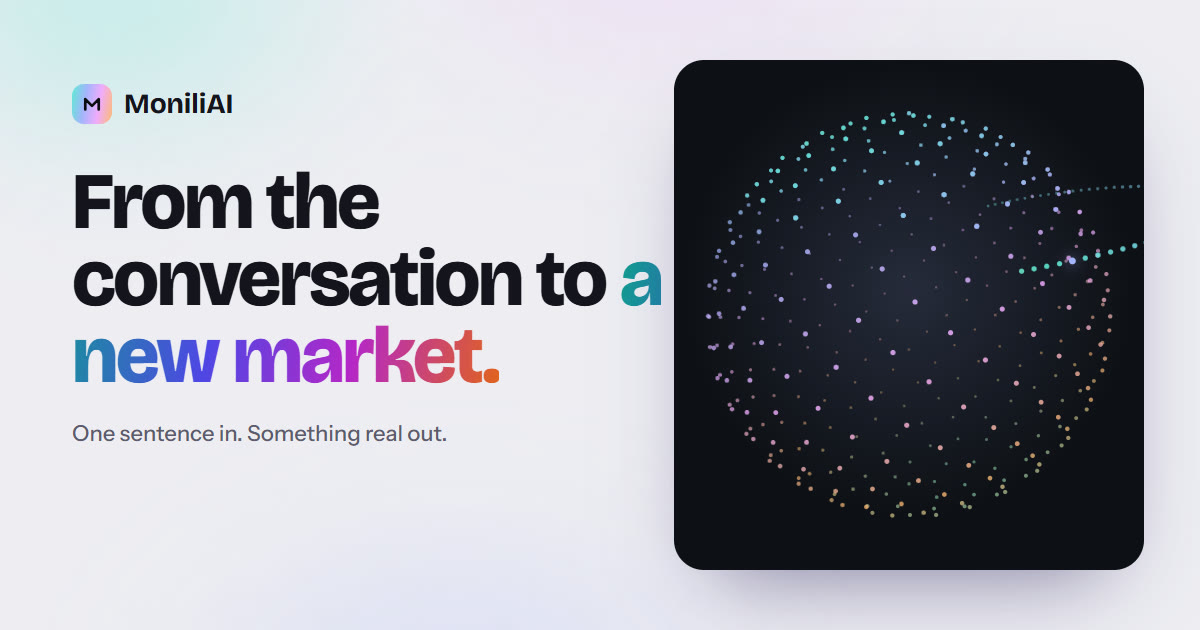
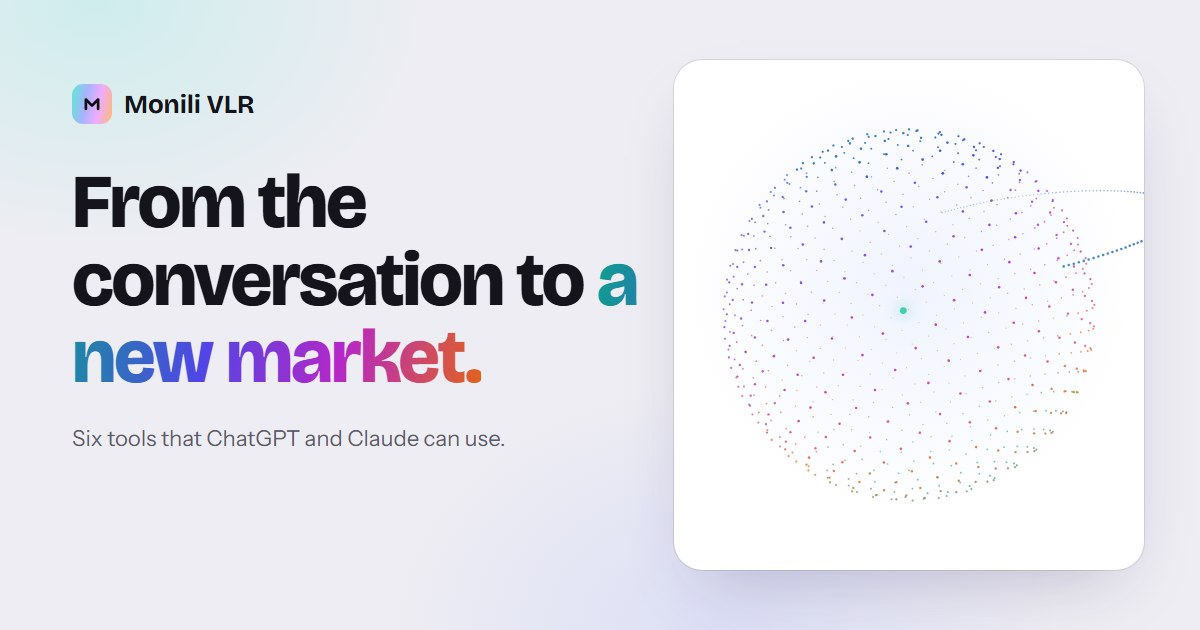
Name: Monili VLR (was MoniliAI), matching the address monili-vlr.github.io

diff --git a/dossier/index.html b/dossier/index.html
@@ -3,8 +3,8 @@
 <head>
 <meta charset="utf-8">
 <meta name="viewport" content="width=840">
-<title>MoniliAI · Dossier</title>
-<meta name="description" content="MoniliAI: una fábrica de software impulsada por agentes de IA. Tecnología abierta, economía real.">
+<title>Monili VLR · Dossier</title>
+<meta name="description" content="Monili VLR: una fábrica de software impulsada por agentes de IA. Tecnología abierta, economía real.">
 <link rel="preconnect" href="https://fonts.googleapis.com">
 <link href="https://fonts.googleapis.com/css2?family=Space+Grotesk:wght@400;500;700&family=Inter:wght@400;500;600&display=swap" rel="stylesheet">
 <style>
@@ -18,7 +18,7 @@ body{display:flex;flex-direction:column;align-items:center;gap:24px;padding:24px
 </head>
 <body>
 <section class="page"><div style="width: 794px; height: 1123px; box-sizing: border-box; background: #14213D; color: #F4F1EA; font-family: 'Inter', Arial, sans-serif; padding: 72px; display: flex; flex-direction: column; justify-content: space-between">
-  <div style="display: flex; justify-content: space-between; font-size: 12px; letter-spacing: 0.16em; text-transform: uppercase; color: #C9D1E0"><span><b style="color:#F4F1EA">MoniliAI</b> · Dossier</span><span>Noviembre 2026</span></div>
+  <div style="display: flex; justify-content: space-between; font-size: 12px; letter-spacing: 0.16em; text-transform: uppercase; color: #C9D1E0"><span><b style="color:#F4F1EA">Monili VLR</b> · Dossier</span><span>Noviembre 2026</span></div>
   <div style="display: flex; flex-direction: column; gap: 26px">
     <div style="width: 56px; height: 6px; background: #F2A65A"></div>
     <h1 style="margin: 0; font-family: 'Space Grotesk', Arial, sans-serif; font-weight: 700; font-size: 72px; line-height: 1; letter-spacing: -0.02em">De la conversación a un nuevo mercado.</h1>
@@ -33,10 +33,10 @@ body{display:flex;flex-direction:column;align-items:center;gap:24px;padding:24px
       <div style="background: #1E2D4F; border-radius: 12px; padding: 18px; display: flex; flex-direction: column; gap: 6px"><span style="font-size: 11px; font-weight: 600; letter-spacing: 0.12em; text-transform: uppercase; color: #F2A65A">Economía real</span><b style="font-family: 'Space Grotesk', Arial, sans-serif; font-size: 18px">Productos y servicios</b><span style="font-size: 12.5px; color: #C9D1E0">Fabricación, venta y licencias</span></div>
     </div>
   </div>
-  <div style="display: flex; justify-content: space-between; font-size: 13px; color: #C9D1E0; border-top: 1px solid #3D4A63; padding-top: 16px"><span>Valerio Scorretti · Fundador de MoniliAI</span><span>monili-vlr.github.io/#contact</span></div>
+  <div style="display: flex; justify-content: space-between; font-size: 13px; color: #C9D1E0; border-top: 1px solid #3D4A63; padding-top: 16px"><span>Valerio Scorretti · Fundador de Monili VLR</span><span>monili-vlr.github.io/#contact</span></div>
 </div></section>
 <section class="page"><div style="width: 794px; height: 1123px; box-sizing: border-box; background: #F4F1EA; color: #14213D; font-family: 'Inter', Arial, sans-serif; padding: 64px 72px; display: flex; flex-direction: column; gap: 22px">
-  <div style="display: flex; justify-content: space-between; font-size: 11px; letter-spacing: 0.16em; text-transform: uppercase; color: #5A6478"><span>MoniliAI · De la conversación a un nuevo mercado</span><span>02</span></div>
+  <div style="display: flex; justify-content: space-between; font-size: 11px; letter-spacing: 0.16em; text-transform: uppercase; color: #5A6478"><span>Monili VLR · De la conversación a un nuevo mercado</span><span>02</span></div>
   <div style="display: flex; flex-direction: column; gap: 10px">
     <span style="font-size: 12px; font-weight: 600; letter-spacing: 0.16em; text-transform: uppercase; color: #A8430F">La oportunidad</span>
     <h2 style="margin: 0; font-family: 'Space Grotesk', Arial, sans-serif; font-weight: 700; font-size: 36px; line-height: 1.08">Un nuevo mercado está abriéndose.</h2>
@@ -64,7 +64,7 @@ body{display:flex;flex-direction:column;align-items:center;gap:24px;padding:24px
   </div>
 </div></section>
 <section class="page"><div style="width: 794px; height: 1123px; box-sizing: border-box; background: #F4F1EA; color: #14213D; font-family: 'Inter', Arial, sans-serif; padding: 64px 72px; display: flex; flex-direction: column; gap: 22px">
-  <div style="display: flex; justify-content: space-between; font-size: 11px; letter-spacing: 0.16em; text-transform: uppercase; color: #5A6478"><span>MoniliAI · De la conversación a un nuevo mercado</span><span>03</span></div>
+  <div style="display: flex; justify-content: space-between; font-size: 11px; letter-spacing: 0.16em; text-transform: uppercase; color: #5A6478"><span>Monili VLR · De la conversación a un nuevo mercado</span><span>03</span></div>
   <div style="display: flex; flex-direction: column; gap: 8px">
     <span style="font-size: 12px; font-weight: 600; letter-spacing: 0.16em; text-transform: uppercase; color: #A8430F">Diseño 3D en el chat</span>
     <p style="margin: 0; font-family: 'Space Grotesk', Arial, sans-serif; font-size: 22px; font-weight: 500; line-height: 1.35">Describes lo que quieres. Recibes una pieza con geometría CAD exacta, lista para producir. No es una imagen: es un objeto construible.</p>
@@ -90,7 +90,7 @@ body{display:flex;flex-direction:column;align-items:center;gap:24px;padding:24px
   </div>
 </div></section>
 <section class="page"><div style="width: 794px; height: 1123px; box-sizing: border-box; background: #F4F1EA; color: #14213D; font-family: 'Inter', Arial, sans-serif; padding: 64px 72px; display: flex; flex-direction: column; gap: 22px">
-  <div style="display: flex; justify-content: space-between; font-size: 11px; letter-spacing: 0.16em; text-transform: uppercase; color: #5A6478"><span>MoniliAI · De la conversación a un nuevo mercado</span><span>04</span></div>
+  <div style="display: flex; justify-content: space-between; font-size: 11px; letter-spacing: 0.16em; text-transform: uppercase; color: #5A6478"><span>Monili VLR · De la conversación a un nuevo mercado</span><span>04</span></div>
   <div style="display: flex; flex-direction: column; gap: 8px">
     <span style="font-size: 12px; font-weight: 600; letter-spacing: 0.16em; text-transform: uppercase; color: #A8430F">Privacidad y seguridad</span>
     <p style="margin: 0; font-family: 'Space Grotesk', Arial, sans-serif; font-size: 22px; font-weight: 500; line-height: 1.35">Usar la IA sin exponer los datos de nadie ni dejar el ordenador desprotegido.</p>
@@ -119,7 +119,7 @@ body{display:flex;flex-direction:column;align-items:center;gap:24px;padding:24px
   </div>
 </div></section>
 <section class="page"><div style="width: 794px; height: 1123px; box-sizing: border-box; background: #F4F1EA; color: #14213D; font-family: 'Inter', Arial, sans-serif; padding: 64px 72px; display: flex; flex-direction: column; gap: 24px">
-  <div style="display: flex; justify-content: space-between; font-size: 11px; letter-spacing: 0.16em; text-transform: uppercase; color: #5A6478"><span>MoniliAI · De la conversación a un nuevo mercado</span><span>05</span></div>
+  <div style="display: flex; justify-content: space-between; font-size: 11px; letter-spacing: 0.16em; text-transform: uppercase; color: #5A6478"><span>Monili VLR · De la conversación a un nuevo mercado</span><span>05</span></div>
   <div style="display: flex; flex-direction: column; gap: 8px">
     <span style="font-size: 12px; font-weight: 600; letter-spacing: 0.16em; text-transform: uppercase; color: #A8430F">Movilidad y turismo</span>
     <p style="margin: 0; font-family: 'Space Grotesk', Arial, sans-serif; font-size: 22px; font-weight: 500; line-height: 1.35">Un asistente de viaje que funciona en directo, en cualquier ciudad y en tu idioma.</p>
@@ -148,7 +148,7 @@ body{display:flex;flex-direction:column;align-items:center;gap:24px;padding:24px
   </div>
 </div></section>
 <section class="page"><div style="width: 794px; height: 1123px; box-sizing: border-box; background: #F4F1EA; color: #14213D; font-family: 'Inter', Arial, sans-serif; padding: 64px 72px; display: flex; flex-direction: column; gap: 18px">
-  <div style="display: flex; justify-content: space-between; font-size: 11px; letter-spacing: 0.16em; text-transform: uppercase; color: #5A6478"><span>MoniliAI · De la conversación a un nuevo mercado</span><span>06</span></div>
+  <div style="display: flex; justify-content: space-between; font-size: 11px; letter-spacing: 0.16em; text-transform: uppercase; color: #5A6478"><span>Monili VLR · De la conversación a un nuevo mercado</span><span>06</span></div>
   <div style="display: flex; flex-direction: column; gap: 8px">
     <span style="font-size: 12px; font-weight: 600; letter-spacing: 0.16em; text-transform: uppercase; color: #A8430F">Modelo de negocio</span>
     <h2 style="margin: 0; font-family: 'Space Grotesk', Arial, sans-serif; font-weight: 700; font-size: 30px; line-height: 1.1">La aplicación es gratuita. El valor se genera fuera de la pantalla.</h2>
@@ -176,7 +176,7 @@ body{display:flex;flex-direction:column;align-items:center;gap:24px;padding:24px
     <p style="margin: 0; font-size: 13.5px; line-height: 1.6; color: #E4E8F0">Acceso a inversores y al Demo Day para financiar el lanzamiento; MareNostrum 5 para el render 3D y para entrenar mis propios modelos abiertos, en Europa y publicados como open source; y apoyo para decidir qué línea lanzar primero y con qué precios.</p>
   </div>
   <p style="margin: 0; font-family: 'Space Grotesk', Arial, sans-serif; font-size: 20px; font-weight: 700; line-height: 1.3">Aprovecho las nuevas vitrinas. Construyo tecnología propia. Monetizo la economía real.</p>
-  <div style="margin-top: auto; display: flex; justify-content: space-between; font-size: 12.5px; color: #3D4A63; border-top: 1px solid #D9D4C7; padding-top: 12px"><span>Valerio Scorretti · Fundador de MoniliAI</span><span>monili-vlr.github.io/#contact</span></div>
+  <div style="margin-top: auto; display: flex; justify-content: space-between; font-size: 12.5px; color: #3D4A63; border-top: 1px solid #D9D4C7; padding-top: 12px"><span>Valerio Scorretti · Fundador de Monili VLR</span><span>monili-vlr.github.io/#contact</span></div>
 </div></section>
 </body>
 </html>

diff --git a/index.html b/index.html
@@ -3,13 +3,13 @@
 <head>
 <meta charset="utf-8">
 <meta name="viewport" content="width=device-width, initial-scale=1, viewport-fit=cover">
-<title>MoniliAI</title>
-<meta name="description" content="MoniliAI is a software factory driven by AI agents. You write a prompt, and something real comes out: a ring, a building, a protected document, a safe computer, a journey.">
+<title>Monili VLR</title>
+<meta name="description" content="Monili VLR is a software factory driven by AI agents. You write a prompt, and something real comes out: a ring, a building, a protected document, a safe computer, a journey.">
 <meta name="theme-color" content="#EEEDF3">
 <link rel="icon" href="favicon.svg" type="image/svg+xml">
 <link rel="canonical" href="https://monili-vlr.github.io/">
 <meta property="og:type" content="website">
-<meta property="og:title" content="MoniliAI · From the conversation to a new market">
+<meta property="og:title" content="Monili VLR · From the conversation to a new market">
 <meta property="og:description" content="A software factory driven by AI agents. You write, something real comes out.">
 <meta property="og:url" content="https://monili-vlr.github.io/">
 <meta property="og:image" content="https://monili-vlr.github.io/og.jpg">
@@ -216,7 +216,7 @@ button { touch-action: manipulation; }
 <a class="skip" href="#products">Skip to the products</a>
 <header class="top">
   <div class="wrap bar">
-    <a class="brand" href="#top" aria-label="MoniliAI, home"><span class="mark"><svg viewBox="0 0 18 18" aria-hidden="true"><path d="M3.5 13.5V5l5.5 5.5L14.5 5v8.5" fill="none" stroke="#0B0C11" stroke-width="2.2" stroke-linecap="round" stroke-linejoin="round"/></svg></span>MoniliAI</a>
+    <a class="brand" href="#top" aria-label="Monili VLR, home"><span class="mark"><svg viewBox="0 0 18 18" aria-hidden="true"><path d="M3.5 13.5V5l5.5 5.5L14.5 5v8.5" fill="none" stroke="#0B0C11" stroke-width="2.2" stroke-linecap="round" stroke-linejoin="round"/></svg></span>Monili VLR</a>
     <nav aria-label="Main"><a href="#products">Products</a><a href="#factory">The factory</a><a href="#model">Model</a><a href="dossier/">Dossier</a><a href="#contact">Contact</a></nav>
   </div>
 </header>
@@ -278,21 +278,21 @@ button { touch-action: manipulation; }
       <div>
         <div class="label">Contact</div>
         <h2 id="ch">Write to us. <span class="tone">A person answers.</span></h2>
-        <p class="clead">Access to a product, a partnership, a question about your data: one box for all of MoniliAI. We answer by email.</p>
+        <p class="clead">Access to a product, a partnership, a question about your data: one box for all of Monili VLR. We answer by email.</p>
         <div class="pnote" id="privacy-contact">
           <h3>How your message is handled</h3>
           <p>The box sends your name, your email and your message. We use them only to answer you and to follow up your request (GDPR art. 6(1)(b), or legitimate interest for general questions).</p>
           <p>Messages are delivered by FormSubmit (formsubmit.co) to our mailbox on Gmail (Google); both may process them in the United States under their own safeguards. Nothing is sold or used for marketing.</p>
-          <p>We keep messages as long as needed for your request, and no longer than 24 months after the last contact. You can ask for access, correction or deletion, or object, by writing here; you can also complain to your data protection authority. Controller: Valerio Scorretti, founder of MoniliAI.</p>
+          <p>We keep messages as long as needed for your request, and no longer than 24 months after the last contact. You can ask for access, correction or deletion, or object, by writing here; you can also complain to your data protection authority. Controller: Valerio Scorretti, founder of Monili VLR.</p>
         </div>
       </div>
-      <div data-mai-contact-inline data-topic="MoniliAI" data-light><p class="cwait">Loading the contact form…</p></div>
+      <div data-mai-contact-inline data-topic="Monili VLR" data-light><p class="cwait">Loading the contact form…</p></div>
       <script src="contact.js"></script>
     </div>
   </section>
 </main>
 
-<footer><div class="wrap"><span>© 2026 MoniliAI · Valerio Scorretti, founder</span><span><a href="#contact">Contact</a> · <a href="#privacy-contact">Privacy</a> · <a href="dossier/">Dossier (ES)</a></span></div></footer>
+<footer><div class="wrap"><span>© 2026 Monili VLR · Valerio Scorretti, founder</span><span><a href="#contact">Contact</a> · <a href="#privacy-contact">Privacy</a> · <a href="dossier/">Dossier (ES)</a></span></div></footer>
 
 <script src="products.js"></script>
 <script src="fx.js"></script>

diff --git a/contact.js b/contact.js
@@ -1,9 +1,9 @@
-/* MoniliAI contact box, shared by every MoniliAI site.
+/* Monili VLR contact box, shared by every Monili VLR site.
    - Any link with data-mai-contact="Topic" opens the box over the page (the link still works
      without JavaScript: it points to https://monili-vlr.github.io/#contact).
    - <div data-mai-contact-inline data-topic="..."></div> shows the box inside the page.
    - window.MAIContact.open({ topic, message }) opens it from code.
-   Messages are delivered by FormSubmit (formsubmit.co) to the MoniliAI mailbox; the address is
+   Messages are delivered by FormSubmit (formsubmit.co) to the Monili VLR mailbox; the address is
    never written in the pages. To change where messages go, change ENDPOINT only. */
 (() => {
   'use strict';
@@ -54,11 +54,11 @@ dialog.maic-dlg::backdrop{background:rgba(8,10,20,.62);backdrop-filter:blur(3px)
   let n = 0;
 
   function card(opts = {}) {
-    const id = 'maic' + (++n), topic = opts.topic || 'MoniliAI';
+    const id = 'maic' + (++n), topic = opts.topic || 'Monili VLR';
     const box = document.createElement('div'); box.className = 'maic' + (opts.light ? ' maic-light' : '');
     box.innerHTML = `
       ${opts.closable ? '<button type="button" class="maic-x" aria-label="Close">&times;</button>' : ''}
-      <h2 id="${id}-h">Write to MoniliAI</h2>
+      <h2 id="${id}-h">Write to Monili VLR</h2>
       <p class="maic-sub">About: <b>${esc(topic)}</b>. We answer by email, usually within two working days.</p>
       <form novalidate aria-labelledby="${id}-h">
         <div class="maic-row">
@@ -87,7 +87,7 @@ dialog.maic-dlg::backdrop{background:rgba(8,10,20,.62);backdrop-filter:blur(3px)
         const r = await fetch(ENDPOINT, {
           method: 'POST', headers: { 'Content-Type': 'application/json', Accept: 'application/json' },
           body: JSON.stringify({ name: form.name.value.trim() || '(no name)', email, message: text, topic, page: location.href,
-            _subject: `MoniliAI · ${topic}`, _replyto: email, _template: 'table', _captcha: 'false' })
+            _subject: `Monili VLR · ${topic}`, _replyto: email, _template: 'table', _captcha: 'false' })
         });
         const j = await r.json().catch(() => ({}));
         if (!r.ok || String(j.success) !== 'true') throw new Error(j.message || 'not sent');
@@ -96,7 +96,7 @@ dialog.maic-dlg::backdrop{background:rgba(8,10,20,.62);backdrop-filter:blur(3px)
         const why = String(err && err.message || '');
         msg.className = 'maic-msg err';
         msg.textContent = /activat/i.test(why)
-          ? 'The contact box is waiting for its one-time activation by MoniliAI. Please try again later.'
+          ? 'The contact box is waiting for its one-time activation by Monili VLR. Please try again later.'
           : 'The message could not be sent right now' + (why && why !== 'not sent' && !/fetch/i.test(why) ? ' (' + why.slice(0, 120) + ')' : '') + '. Please try again in a moment.';
         btn.disabled = false; btn.firstChild.textContent = 'Send ';
       }
@@ -122,7 +122,7 @@ dialog.maic-dlg::backdrop{background:rgba(8,10,20,.62);backdrop-filter:blur(3px)
   document.addEventListener('click', e => {
     const a = e.target.closest && e.target.closest('[data-mai-contact]');
     if (!a || e.ctrlKey || e.metaKey || e.shiftKey || e.button > 0) return;
-    e.preventDefault(); open({ topic: a.dataset.maiContact || 'MoniliAI' });
+    e.preventDefault(); open({ topic: a.dataset.maiContact || 'Monili VLR' });
   });
   window.MAIContact = { open, mount };
   mount(); if (document.readyState === 'loading') document.addEventListener('DOMContentLoaded', mount);

diff --git a/mobile.css b/mobile.css
@@ -1,4 +1,4 @@
-/* MoniliAI phone layout, shared by every MoniliAI site. Nothing here changes the desktop layout.
+/* Monili VLR phone layout, shared by every Monili VLR site. Nothing here changes the desktop layout.
    .mai-swipe        a long group of cards becomes one row you swipe sideways (the next card peeks in)
    .mai-wrap         an invisible wrapper added around cards that had no container of their own
    .mai-swipe-hint   "Swipe to see more", shown only on phones

diff --git a/fx.js b/fx.js
@@ -1,4 +1,4 @@
-/* MoniliAI graphics: one point-cloud engine for every product shape.
+/* Monili VLR graphics: one point-cloud engine for every product shape.
    Same stroke, same holographic palette, same motion everywhere, so the previews read as one family.
    Shapes: ring, building, redact, shield, transit, globe, orb. Each returns N points in [-1, 1]^3. */
 (() => {

diff --git a/products.js b/products.js
@@ -1,4 +1,4 @@
-/* MoniliAI product catalogue.
+/* Monili VLR product catalogue.
    To add a product, add one object to PRODUCTS. Nothing else needs to change.
    - id, name:  short id (page anchor) and the name shown
    - market:    one of the MARKETS keys (or add a new market)
